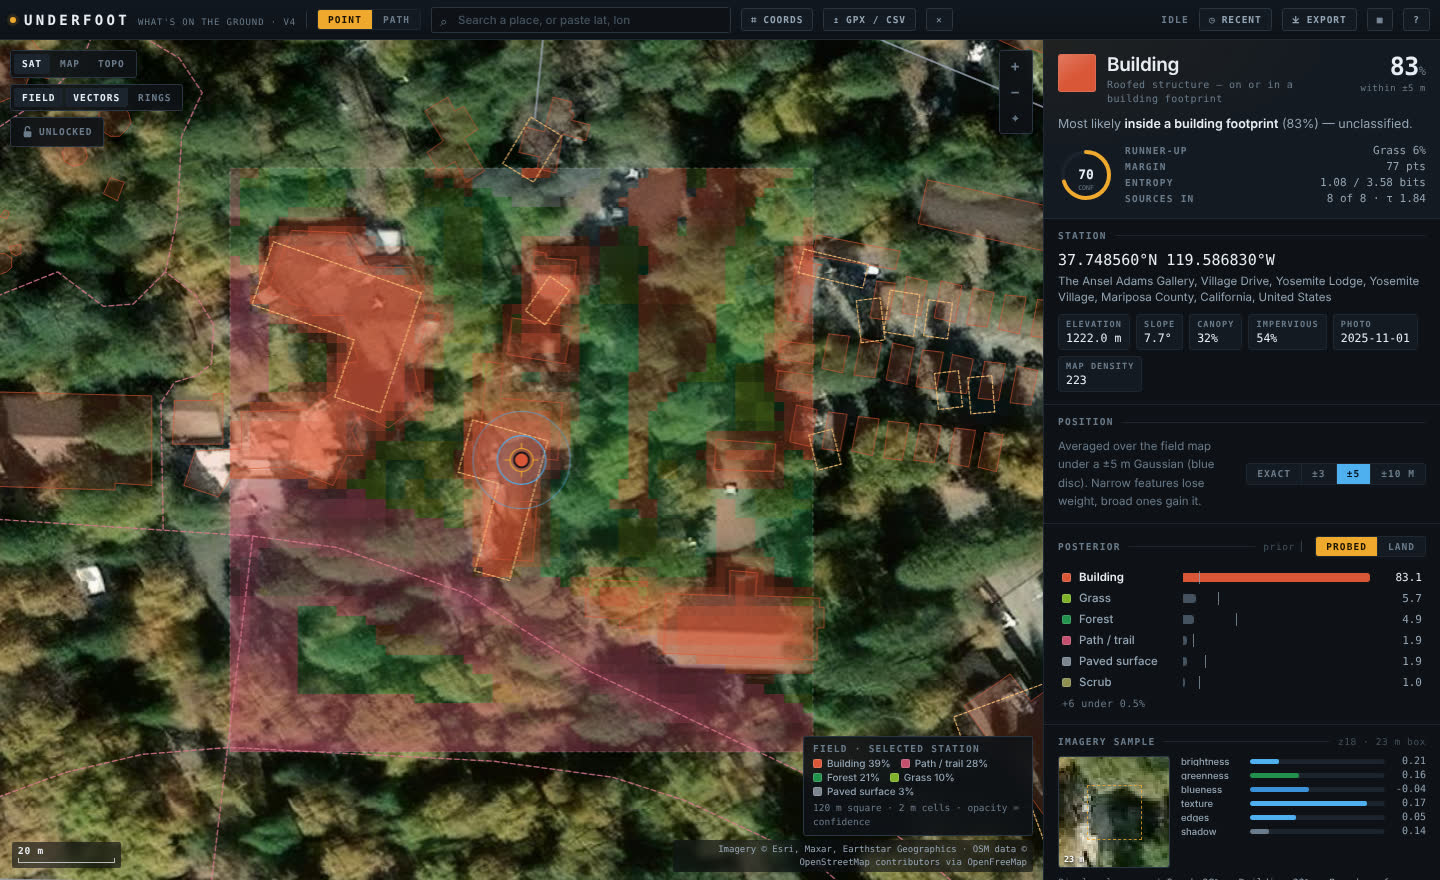
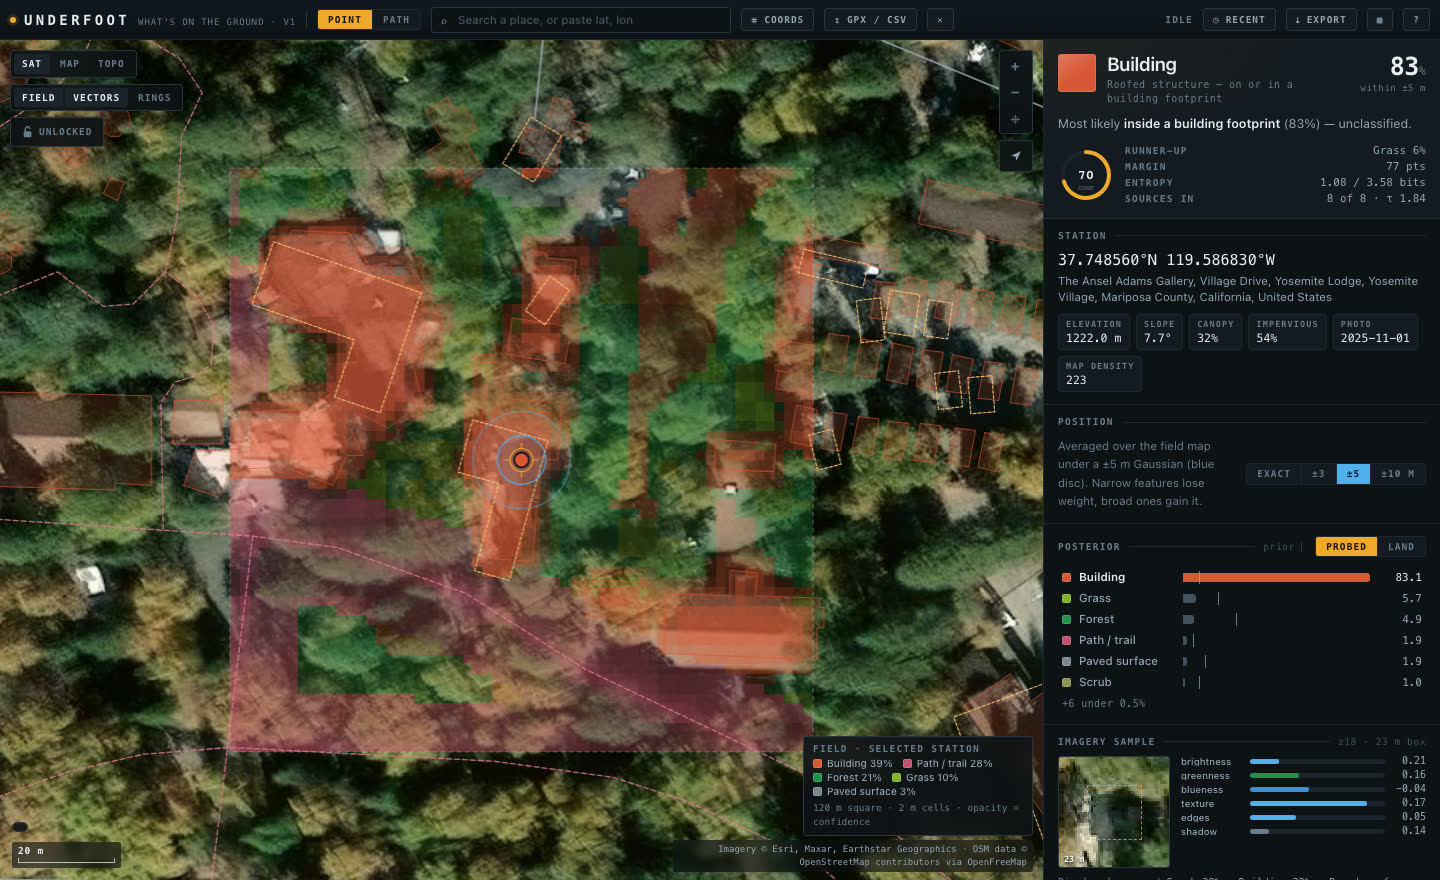
Release 1.1.0: M1, Go public (#22)
Version 1.1.0 in package.json, the app and CITATION.cff, and the
changelog's section for it. The roadmap records what M1 shipped
against each item's "done when". The README images are regenerated
from the current app (route card, follow switch, Here, share button,
the v1 header), and Grand Prismatic now reads water 97%, not 95%.

Checked on this commit: npm run check (113 unit tests), npm run e2e
(80 checks), npm run trails (unchanged: path 99.8% on the ten Park
Service lines, 87-94% on the hiker tracks, demo line follows nothing).

diff --git a/src/core/classes.ts b/src/core/classes.ts
@@ -18,7 +18,7 @@ import type { ClassDef, ClassKey, ClassMap, PriorName, SourceDef } from './types
  * Everything is free, keyless and CORS-open, so the file works off disk.
  * ==========================================================================*/
 
-export const VERSION = '1.0.0';
+export const VERSION = '1.1.0';
 
 /* ---------------------------------------------------------------- taxonomy */
 export const CLASSES: readonly ClassDef[] = [

diff --git a/docs/roadmap.md b/docs/roadmap.md
@@ -20,29 +20,15 @@ The single-file app became this repository: Vite + TypeScript modules, unit and 
 
 ---
 
-## M1 · Go public
+## M1 · Go public ✅
 
-**Goal:** a live site you can send to someone, and that's useful on a phone in the field.
+A live site you can send to someone, useful on a phone in the field. Released as 1.1.0.
 
-### Publish
-Public repo, Pages deploy, first tagged release with `underfoot.html` attached, social preview, topics, issue templates live.
-**Done when** the site loads at `dogum.github.io/underfoot`, CI and Pages are green, and the release page offers the offline file.
-
-### Live GPS mode
-A **Here** button. `navigator.geolocation.watchPosition` drives the probe; the GPS accuracy disc is set from the fix's own reported accuracy (rounded to the ±3/5/10 m steps, or continuous). The sounding re-runs when the fix moves farther than its accuracy, not on every jitter. A small track of recent fixes shows on the map. Optional "record" turns the fixes into a path.
-**Done when** walking with a phone shows the call updating under you within a few seconds of moving, without flicker while standing still; denial of location permission is handled with a clear message; tested with emulated geolocation in the browser suite.
-
-### Follow the trail
-Along ten National Park Service trails, Underfoot calls path at only 8% of stations: it names the forest, scrub or wetland the trail runs through, with path usually second ([Real trails](validation.md#real-trails-scriptsvalidate-trailsmjs)). The fix is to treat a line that follows a mapped path the way a crossing is treated. Where a stretch of the line runs within GPS error of one mapped path and roughly parallel to it, being on that path is known by construction, with only its existence in doubt; stations on the stretch snap to the tread; and the line stops collecting crossing stations where it weaves across the path it follows. The readout says which path it matched and over what length, and matching can be switched off for a transect that only runs beside a trail.
-**Done when** `scripts/validate-trails.mjs` reports path at 90% or more of stations on the official lines and 75% or more on the hiker tracks, while the demo line, the engine fixtures and the 25 live spots don't change.
-
-### Share card
-One tap renders a card: map crop with the probe or line, the call and its probability, the top three bars, coordinates, date. Phones get the Web Share API; desktops download a PNG.
-**Done when** the card renders identically on desktop and phone, is under 400 KB, and includes the link that reopens the sounding.
-
-### Route surface report
-For a path: share of length per class, crossings by type (roads, trails, streams, rail), steepest grade and total climb from the elevation profile, longest continuous stretch per class, and the stations under 40% confidence. Shown as a card above the transect, exportable as an image and included in the GeoJSON export.
-**Done when** the numbers on the demo line reconcile with the transect (lengths sum to the line length; crossing counts match the × stations), with a unit test on the summariser.
+- **Publish.** The site at [dogum.github.io/underfoot](https://dogum.github.io/underfoot/), CI on every push, Pages from `main`, 1.0.0 with `underfoot.html` attached. Long lines keep their shape in links ([#18](https://github.com/dogum/underfoot/pull/18)).
+- **Follow the trail** ([#12](https://github.com/dogum/underfoot/pull/12)). A line that runs along a mapped path or road is matched to it. Path along ten Park Service trails went from 8% to 99.8% of stations (the target was 90%); along three hikers' GPS tracks, from 2–7% to 87–94% (target 75%). The demo line is unchanged. Rivers crossed on a bridge are crossed on the deck ([#15](https://github.com/dogum/underfoot/pull/15)).
+- **Here** ([#19](https://github.com/dogum/underfoot/pull/19)). Live GPS: the newest fix is read with the last 200 m of fixes behind it, so on a trail it names the trail. It re-reads when the fix moves farther than its accuracy. Rec keeps the walk; location turned off gets a plain message. Tested with emulated geolocation.
+- **Route surface report** ([#20](https://github.com/dogum/underfoot/pull/20)). A card above the transect and `route_report` in the GeoJSON. Lengths add up to the line and crossings match the transect, both checked in the browser suite. Crossings count their mapped width.
+- **Share card** ([#21](https://github.com/dogum/underfoot/pull/21)). A 1200 × 630 JPEG of about 150 KB (the target was under 400 KB), with the link that reopens the sounding. The share sheet on a phone; download and copy the link on a desktop.
 
 ---
 

diff --git a/README.md b/README.md
@@ -64,7 +64,7 @@ Tap to probe, tap to draw a line with Undo and Done, drag a vertex to reshape it
 | [The demo line, Yosemite Valley](https://dogum.github.io/underfoot/#m=path&s=auto&v=37.748560,-119.586830;37.746200,-119.588000;37.744500,-119.590000;37.743000,-119.589900;37.741400,-119.589200) | building → roads → meadow → river → forest, with every crossing named |
 | [The Ansel Adams Gallery, Yosemite](https://dogum.github.io/underfoot/#m=point&s=auto&v=37.748560,-119.586830) | building 97% |
 | [Half Dome summit](https://dogum.github.io/underfoot/#m=point&s=auto&v=37.745950,-119.533150) | bare ground 93% |
-| [Grand Prismatic Spring, Yellowstone](https://dogum.github.io/underfoot/#m=point&s=auto&v=44.525100,-110.838200) | water 95% |
+| [Grand Prismatic Spring, Yellowstone](https://dogum.github.io/underfoot/#m=point&s=auto&v=44.525100,-110.838200) | water 97% |
 | [Paradise snowfield, Mount Rainier](https://dogum.github.io/underfoot/#m=point&s=auto&v=46.852000,-121.740000) | snow / ice 70%, bare next |
 | [Angels Landing summit, Zion](https://dogum.github.io/underfoot/#m=point&s=auto&v=37.269350,-112.947650) | bare ground 55%, scrub next |
 | [The Everglades](https://dogum.github.io/underfoot/#m=point&s=auto&v=25.500000,-80.800000) | wetland 64%, water next |
@@ -156,7 +156,7 @@ The code is moving to strict TypeScript file by file; `core/`, the fusion engine
 
 ![Roadmap tracks: Pocket (M1), Learn (M2–M3), Now (M4), Read the ground (M5), History and scale (M6)](docs/assets/roadmap-tracks.png)
 
-Next is a phone-first release: live GPS, share cards and a route surface report. After that, a learning loop where you mark calls right or wrong and the weights improve, then opt-in sharing of those marks (never the exact location) so everyone's walks improve the model. Each item and what "done" means is in [docs/roadmap.md](docs/roadmap.md).
+The phone-first release (M1) is out: following trails, live GPS, a route surface report and share cards. Next is a learning loop where you mark calls right or wrong and the weights improve, then opt-in sharing of those marks (never the exact location) so everyone's walks improve the model. Each item and what "done" means is in [docs/roadmap.md](docs/roadmap.md).
 
 ## Contributing
 

diff --git a/CHANGELOG.md b/CHANGELOG.md
@@ -1,6 +1,8 @@
 # Changelog
 
-## Unreleased
+## 1.1.0 — 2026-10-08
+
+**M1 · Go public.** Underfoot in your pocket: it follows the trail you're on, reads the ground under you as you walk, sums up a line, and makes a picture of the answer to share.
 
 **Share card.** Export ▸ Share card, or the button under the answer on a phone, makes one picture of the call with the link that reopens it: 1200 × 630, a JPEG of about 150 KB. The map is drawn fresh for the card (satellite, no buttons or hints, credits kept). A point shows the call, its top three, the place, the coordinates, the date and the sources heard from; a line shows its share of length per call, its crossings and climb, and what it follows. A phone hands it to the share sheet; a desktop downloads it and copies the link.
 
